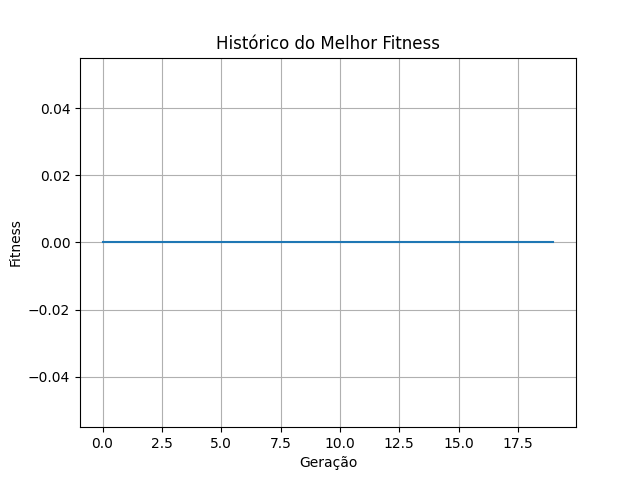
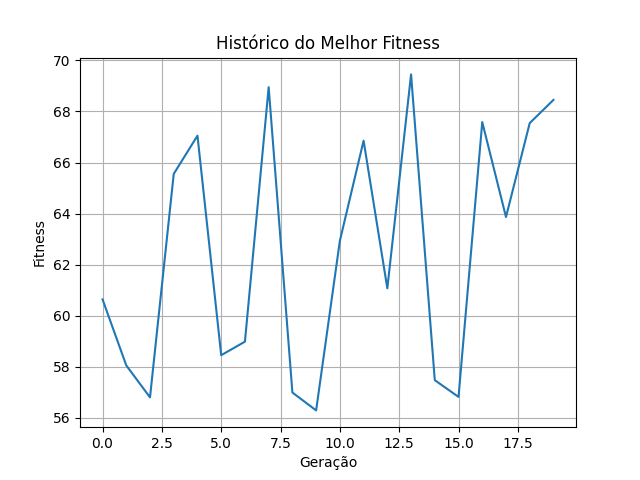
Refactor AI agent references and improve game reset functionality in Pong

diff --git a/src/model/CustomPyEnv.py b/src/model/CustomPyEnv.py
@@ -8,7 +8,7 @@ import numpy as np
 import random
 import pygame
 
-from settings import SPEED
+#from settings import SPEED
 from Pong import Game
 
 class CustomPyEnvironment(PyEnvironment):
@@ -22,7 +22,7 @@ class CustomPyEnvironment(PyEnvironment):
     """
     __metadata__ = {"render_modes": ["human", "rgb_array"], "render_fps": 60} #TODO: Ainda não utilizado
 
-    def __init__(self, render_mode: str = None, seed: int = None):
+    def __init__(self, render_mode: str = "human", seed: int = None):
         super().__init__()
         """
         Inicializa o ambiente personalizado.
@@ -32,6 +32,7 @@ class CustomPyEnvironment(PyEnvironment):
             seed (int, opcional): Define a semente para gerar resultados reprodutíveis.
         """
 
+        # initialize game
         self.game = Game()
         self.render_mode = render_mode
 
@@ -72,7 +73,7 @@ class CustomPyEnvironment(PyEnvironment):
         Returns:
             ts.TimeStep: O estado inicial do ambiente após o reset.
         """
-        self.game.reset_game()
+        #self.render(self.render_mode)
         return self._create_timestep(self.get_obs(), ts.StepType.FIRST, 0.0, 1.0)
 
     def _step(self, action: int) -> ts.TimeStep:
@@ -87,12 +88,11 @@ class CustomPyEnvironment(PyEnvironment):
         """
         self._apply_action(action)
         reward, done = self.calculate_reward(action)
-        obs = self.get_obs()
     
         step_type = ts.StepType.MID if not done else ts.StepType.LAST
         discount = 1.0 if not done else 0.0
     
-        return self._create_timestep(obs, step_type, reward, discount)
+        return self._create_timestep(self.get_obs(), step_type, reward, discount)
 
     def _create_timestep(self, obs, step_type, reward, discount) -> ts.TimeStep:
         """
@@ -121,8 +121,8 @@ class CustomPyEnvironment(PyEnvironment):
         Args:
             action (int): Ação a ser aplicada (-1 - mover para cima, 1 - mover para baixo).
         """
-        self.game.ai_agent.get_direction(action)
-        self.game.ai_agent.move(self.game.clock.tick() / 1000)
+        self.game.agent.get_direction(action)
+        self.game.agent.move(self.game.clock.tick() / 1000)
 
     def calculate_reward(self, action: int) -> tuple[float, bool]:
         """
@@ -137,20 +137,26 @@ class CustomPyEnvironment(PyEnvironment):
         reward = 0.0
         done = False
     
-        if self.game.ball.rect.right < self.game.ai_agent.rect.left:
+        if self.game.ball.rect.right < self.game.agent.rect.left:
             reward -= 5.0
             done = True
+
+        if self.game.ball.rect.left > self.game.player.rect.right:
+            done = True
+
+        if self.game.agent.rect.colliderect(self.game.ball.rect):
+            reward += 1.0
     
-        if self.game.ai_agent.rect.colliderect(self.game.ball.rect):
-            reward += 3.0
-    
-        distance = abs(self.game.ball.rect.centery - self.game.ai_agent.rect.centery)
-        reward += 1.0 / (distance + 1)
-    
+        distance = self.game.ball.get_distance(self.game.agent)
+        scalar = 3e-4 # 0.0003
+        reward += scalar * (10 - distance) if distance < 10 else -scalar * distance
+
         if done:
-            self.game.reset_game()
-            #self.reset()
+            self.reset()
     
+        # TODO: O jogo ainda não irá terminar, se o agente não deixar a bola passar ou o player não deixar a bola passar
+        # TODO: Vou começar a trabalhar no vetor e aimação da bola, e reorganizar o código
+
         return reward, done
 
     def get_obs(self) -> np.ndarray:
@@ -170,12 +176,12 @@ class CustomPyEnvironment(PyEnvironment):
         Args:
             mode (str): Modo de renderização ('human' ou 'rgb_array').
         """
-        if mode == "human":
+        if mode == self.render_mode:
             self.game._render_game()
             pygame.display.update()
     
         elif mode == "rgb_array":
-            return np.array([self.game.ai_agent.rect.y, self.game.ball.rect.y], dtype=np.float32)
+            return np.array([self.game.agent.rect.y, self.game.ball.rect.y], dtype=np.float32)
         
         else:
             self.close()

diff --git a/src/model/Visualizer.py b/src/model/Visualizer.py
@@ -1,0 +1,80 @@
+import pygame
+import numpy as np
+
+class Visualizer:
+    def __init__(self, node_radius=20, node_color=(0, 0, 255), 
+                 pos_color=(0, 255, 0), neg_color=(255, 0, 0), 
+                 margin=50):
+        """
+        Inicializa o visualizador com parâmetros configuráveis. TODO: Ainda falta configurar melhor a classe.
+        """
+        self.dash_offset = 0
+        self.node_radius = node_radius
+        self.node_color = node_color
+        self.pos_color = pos_color
+        self.neg_color = neg_color
+        self.margin = margin
+
+    def update(self, dt):
+        """
+        Atualiza o estado do visualizador, como o deslocamento do traço.
+        """
+        self.dash_offset += 0.05 * dt
+        if self.dash_offset >= 1:
+            self.dash_offset = 0
+
+    def draw_network(self, screen, weights):
+        """
+        Desenha a rede neural na tela.
+        """
+        screen_width, screen_height = screen.get_size()
+        num_layers = len(weights)
+        layer_height = screen_height / (num_layers + 1)
+
+        for i, layer_weights in enumerate(weights):
+            num_nodes_in = layer_weights[0].shape[0]
+            num_nodes_out = layer_weights[0].shape[1]
+            node_spacing_in = screen_width / (num_nodes_in + 1)
+            node_spacing_out = screen_width / (num_nodes_out + 1)
+
+            for j in range(num_nodes_in):
+                x_in = (j + 1) * node_spacing_in
+                y_in = (i + 1) * layer_height
+                pygame.draw.circle(screen, self.node_color, (int(x_in), int(y_in)), self.node_radius)
+
+                for k in range(num_nodes_out):
+                    x_out = (k + 1) * node_spacing_out
+                    y_out = (i + 2) * layer_height
+                    weight = layer_weights[0][j][k]
+                    color = self.pos_color if weight > 0 else self.neg_color
+                    pygame.draw.line(screen, color, (int(x_in), int(y_in)), (int(x_out), int(y_out)), 1)
+
+            for k in range(num_nodes_out):
+                x_out = (k + 1) * node_spacing_out
+                y_out = (i + 2) * layer_height
+                pygame.draw.circle(screen, self.node_color, (int(x_out), int(y_out)), self.node_radius)
+
+    def draw_level(self, screen, level, left, top, width, height):
+        """
+        Desenha um nível da rede neural.
+        """
+        right = left + width
+        bottom = top + height
+        node_spacing = width / (len(level.outputs) + 1)
+        
+        # Desenhar conexões
+        for i, input_value in enumerate(level.inputs):
+            for j, output_value in enumerate(level.outputs):
+                start_pos = (left + (i + 1) * node_spacing, top + height / 2)
+                end_pos = (left + (j + 1) * node_spacing, bottom - height / 2)
+                color = self.pos_color if level.weights[i][j] > 0 else self.neg_color
+                pygame.draw.line(screen, color, start_pos, end_pos, 2)
+        
+        # Desenhar nós
+        for i, input_value in enumerate(level.inputs):
+            pos = (left + (i + 1) * node_spacing, top + height / 2)
+            pygame.draw.circle(screen, self.node_color, pos, self.node_radius)
+        
+        for j, output_value in enumerate(level.outputs):
+            pos = (left + (j + 1) * node_spacing, bottom - height / 2)
+            pygame.draw.circle(screen, self.node_color, pos, self.node_radius)

diff --git a/src/model/EvolutionaryAgent.py b/src/model/EvolutionaryAgent.py
@@ -51,7 +51,7 @@ class EvolutionaryAgent:
         self.model = None
 
     @classmethod
-    def set_seeds(cls, set_seed=True, seed_np=None, seed_random=None, seed_tf=None) -> tuple:
+    def set_seeds(cls, set_seed=False, seed_np=None, seed_random=None, seed_tf=None) -> tuple:
         """set seeds for numpy, random and tensorflow."""
         if set_seed:
             seed_np = seed_np if seed_np is not None else 42
@@ -76,12 +76,10 @@ class EvolutionaryAgent:
             self.population.append(model)
 
     def _create_model(self):
-        model = keras.Sequential([
+        return keras.Sequential([
             keras.layers.Input(self.input_shape),
             keras.layers.Dense(32, activation='relu'),
-            keras.layers.Dense(self.num_actions, activation='tanh')
-        ])
-        return model
+            keras.layers.Dense(self.num_actions, activation='tanh')])
 
     def _evaluate_individual(self, model) -> np.ndarray:
         # action_values = W₂ * relu(W₁ * state + b₁) + b₂
@@ -116,7 +114,9 @@ class EvolutionaryAgent:
         for i in range(len(child.layers)):
             weights_parent1 = parent1.layers[i].get_weights()
             weights_parent2 = parent2.layers[i].get_weights()
+
             new_weights = []
+
             for w1, w2 in zip(weights_parent1, weights_parent2):
                 mask = np.random.rand(*w1.shape) > 0.5
                 w = np.where(mask, w1, w2)
@@ -131,6 +131,7 @@ class EvolutionaryAgent:
 
         for layer in model.layers:
             weights = layer.get_weights()
+
             new_weights = []
             for w in weights:
                 if np.random.rand() < self.mutation_rate:
@@ -207,16 +208,16 @@ class EvolutionaryAgent:
         plt.xlabel('Geração')
         plt.ylabel('Fitness')
         plt.grid(True)
-        plt.savefig('train')
+        plt.savefig('./train')
 
 if __name__ == "__main__":
     custom_pyenv = CustomPyEnvironment()
     
     evolutionary_agent = EvolutionaryAgent(
         env=custom_pyenv,
-        population_size=10,
-        num_generations=30,
-        mutation_rate=0.8, 
+        population_size=20,
+        num_generations=15,
+        mutation_rate=0.1, 
         elite_fraction=0.2,
         set_seed=False
     )

diff --git a/src/Pong.py b/src/Pong.py
@@ -42,7 +42,9 @@ class Game:
         self.ball = Ball((self.all_sprites), paddle_sprites=self.paddle_sprites, update_score=self.update_score)
         self.player = Player((self.all_sprites, self.paddle_sprites), ball=self.ball)
         #self.opponent = Opponent((self.all_sprites, self.paddle_sprites), ball=self.ball)
-        self.ai_agent = AiAgent((self.all_sprites, self.paddle_sprites), ball=self.ball)
+
+        # agent
+        self.agent = AiAgent((self.all_sprites, self.paddle_sprites), ball=self.ball)
 
         # font
         self.font = pygame.Font(None, 60)
@@ -89,12 +91,12 @@ class Game:
 
     def reset_game(self):
         self.load_score(reset=True)
-        # self.player.reset()
-        # self.ai_agent.reset()
+        self.player.reset()
+        self.agent.reset()
 
     def _render_game(self):
         while self.runing:
-            dt = self.clock.tick(FPS) / 1000 # Divide por 1000 para converter milissegundos em segundos
+            dt = self.clock.tick(FPS) / 1000 # convert to seconds
             for event in pygame.event.get():
                 if event.type == pygame.QUIT:
                     self.runing = False
@@ -111,7 +113,7 @@ class Game:
             pygame.display.update()
 
             # pos frame
-            return np.array([self.ai_agent.rect.y, self.ball.rect.y], dtype=np.float32)
+            return np.array([self.agent.rect.y, self.ball.rect.y], dtype=np.float32)
 
         pygame.quit()
 

diff --git a/src/sprite.py b/src/sprite.py
@@ -117,7 +117,7 @@ class Ball(pygame.sprite.Sprite):
         self.speed_modifier = 0
 
     def get_distance(self, paddle):
-        return self.rect.centerx - paddle.rect.centerx
+        return abs(self.rect.centerx - paddle.rect.centerx) + abs(self.rect.centery - paddle.rect.centery)
 
     def move(self, dt):
         self.rect.x += self.direction.x * SPEED['ball'] * dt * self.speed_modifier
